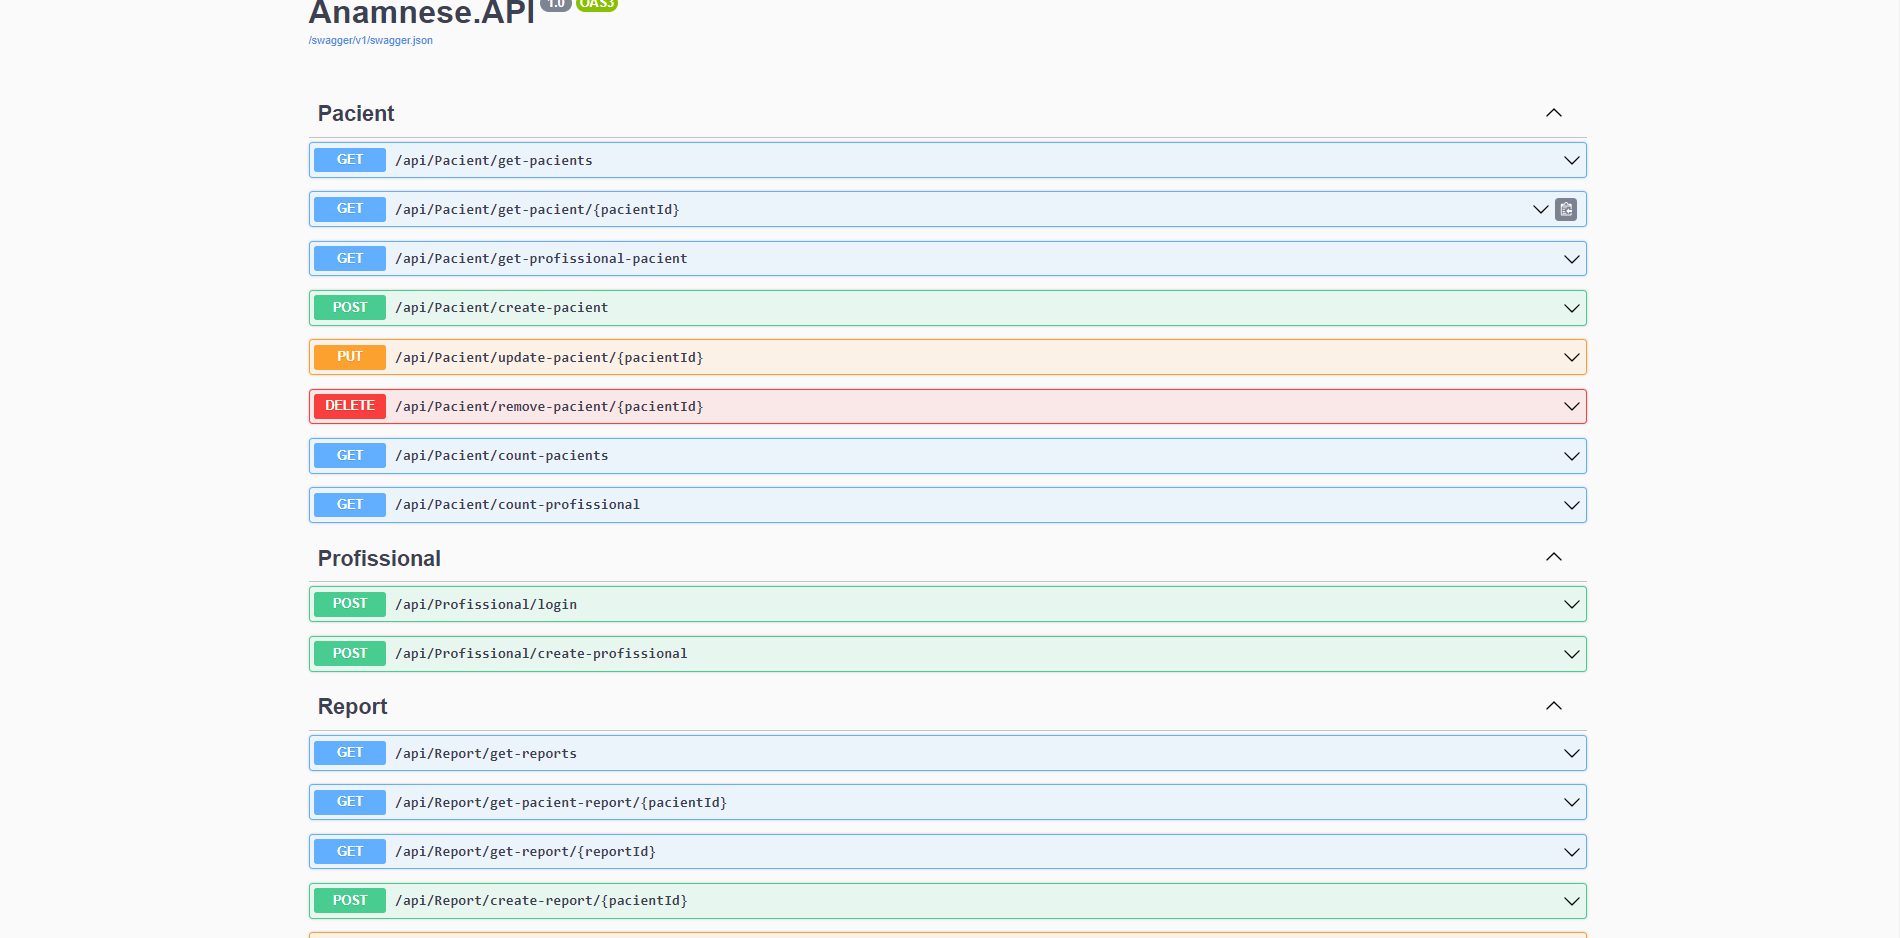
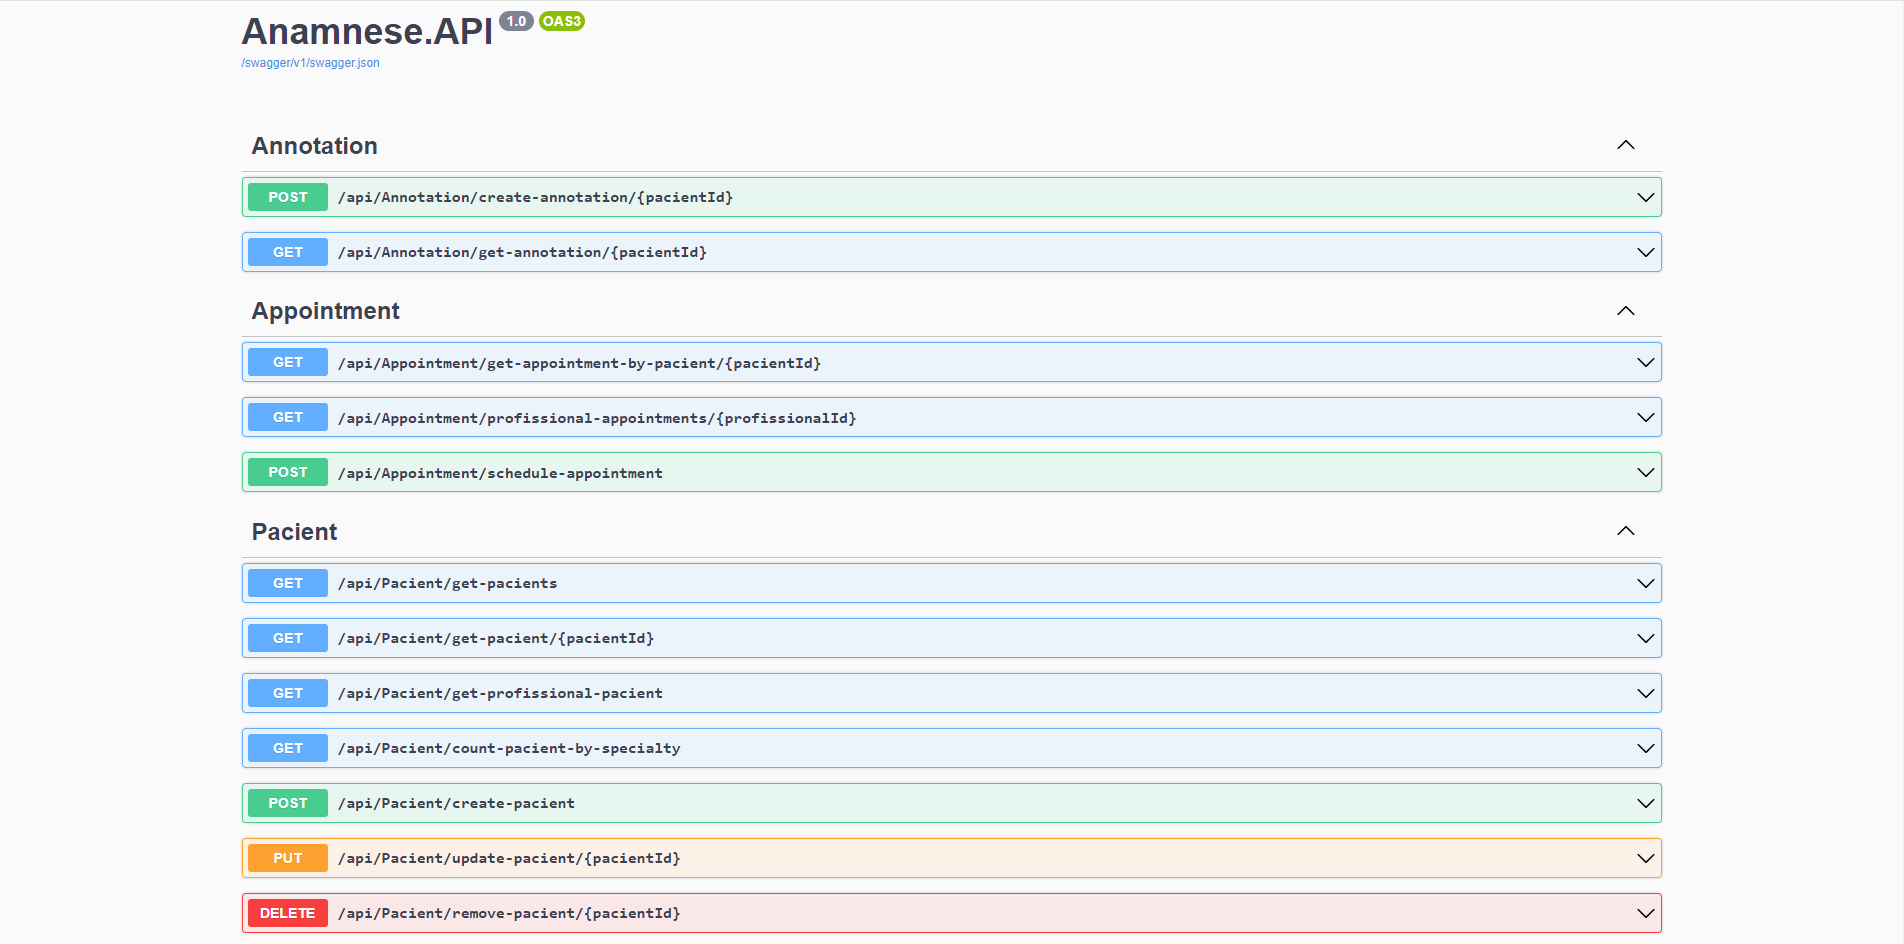
Atualicao projeto anamnese

Changed region(s): [[0.1242, 0.0, 0.8695, 1.0]]

diff --git a/src/components/galleryImages/galleryAngular/index.js b/src/components/galleryImages/galleryAngular/index.js
@@ -23,6 +23,8 @@ import anamneseImage5 from "../../../assets/angularImages/anamnese/anamnese5.png
 import anamneseImage6 from "../../../assets/angularImages/anamnese/anamnese6.png"
 import anamneseImage7 from "../../../assets/angularImages/anamnese/anamnese7.png"
 import anamneseImage8 from "../../../assets/angularImages/anamnese/anamnese8.png"
+import anamneseImage9 from "../../../assets/angularImages/anamnese/anamnese9.png"
+import anamneseImage10 from "../../../assets/angularImages/anamnese/anamnese10.png"
 
 import paymentImage1 from "../../../assets/angularImages/payment_simulation/simulation1.png"
 import paymentImage2 from "../../../assets/angularImages/payment_simulation/simulation2.png"
@@ -104,6 +106,14 @@ export const GalleryAngularImages = ({ stock, crud, todo, weather,anamnese, paym
       original: anamneseImage7,
       thumbnail: anamneseImage7,
     },
+    {
+      original: anamneseImage9,
+      thumbnail: anamneseImage9,
+    },
+    {
+      original: anamneseImage10,
+      thumbnail: anamneseImage10,
+    },
   ];
 
   const stockImages = [
@@ -183,14 +193,14 @@ export const GalleryAngularImages = ({ stock, crud, todo, weather,anamnese, paym
   if (anamnese)
   return (
     <ProjectCard>
-      <Title>Projeto Anamnese</Title>
+      <Title>Projeto Anamnese/Encaminhamento médico</Title>
       <ReactImageGallery
         items={anamneseImages}
         showPlayButton={false}
         slideInterval={1000}
       ></ReactImageGallery>
       <SubTitle>
-      Projeto em Angular para aprimorar nosso sistema de ficha anamnese, onde integramos autenticação e preenchimento de formulários de forma eficiente. Uma das peças-chave desse projeto é a utilização da biblioteca PrimeNG.<br></br>
+      Projeto em Angular para aprimorar um sistema de ficha anamnese,sendo responsável também por encaminhamentos médicos definidos por especialidade, onde integramos autenticação e preenchimento de formulários de forma eficiente. Uma das peças-chave desse projeto é a utilização da biblioteca PrimeNG.<br></br>
       Ainda em constante desenvolvimento!
       </SubTitle>
       <LinksContainer>

diff --git a/src/components/galleryImages/galleryBackEnd/index.js b/src/components/galleryImages/galleryBackEnd/index.js
@@ -41,14 +41,14 @@ export const GalleryBackEnd = ({ lojaAPI, crudAPI, catalogAPI, anamneseAPI }) =>
   if (anamneseAPI)
   return (
     <ProjectCard>
-      <Title>Anamnese API</Title>
+      <Title>Anamnese/Encaminhamento médico API</Title>
       <ReactImageGallery
         items={anamneseAPIImages}
         showPlayButton={false}
         slideInterval={1000}
       ></ReactImageGallery>
       <SubTitle>
-      Back-end para o projeto Anamnese, utilizando .NET 5. 
+      API restfull para o projeto Anamnese e retratando uma simulação de encaminhamento médico, utilizando .NET 6. 
       Este back-end é essencial para gerenciar dados e operações críticas do sistema. Incluindo migrations de banco de dados, criptografia de senha, entre outros...
       </SubTitle>
       <LinksContainer>
